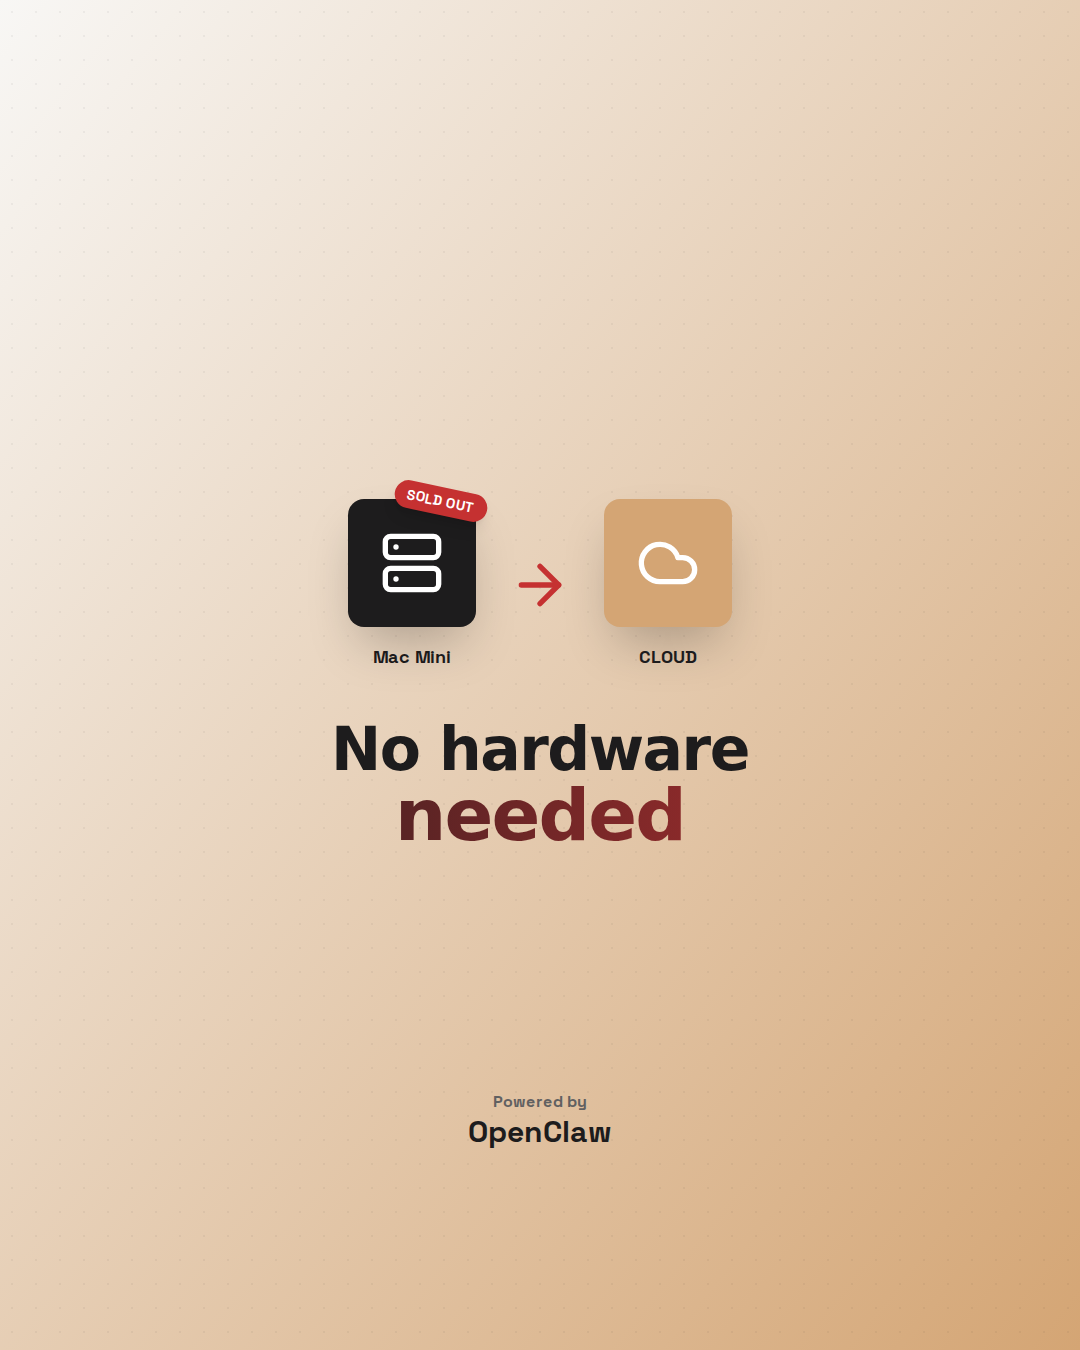
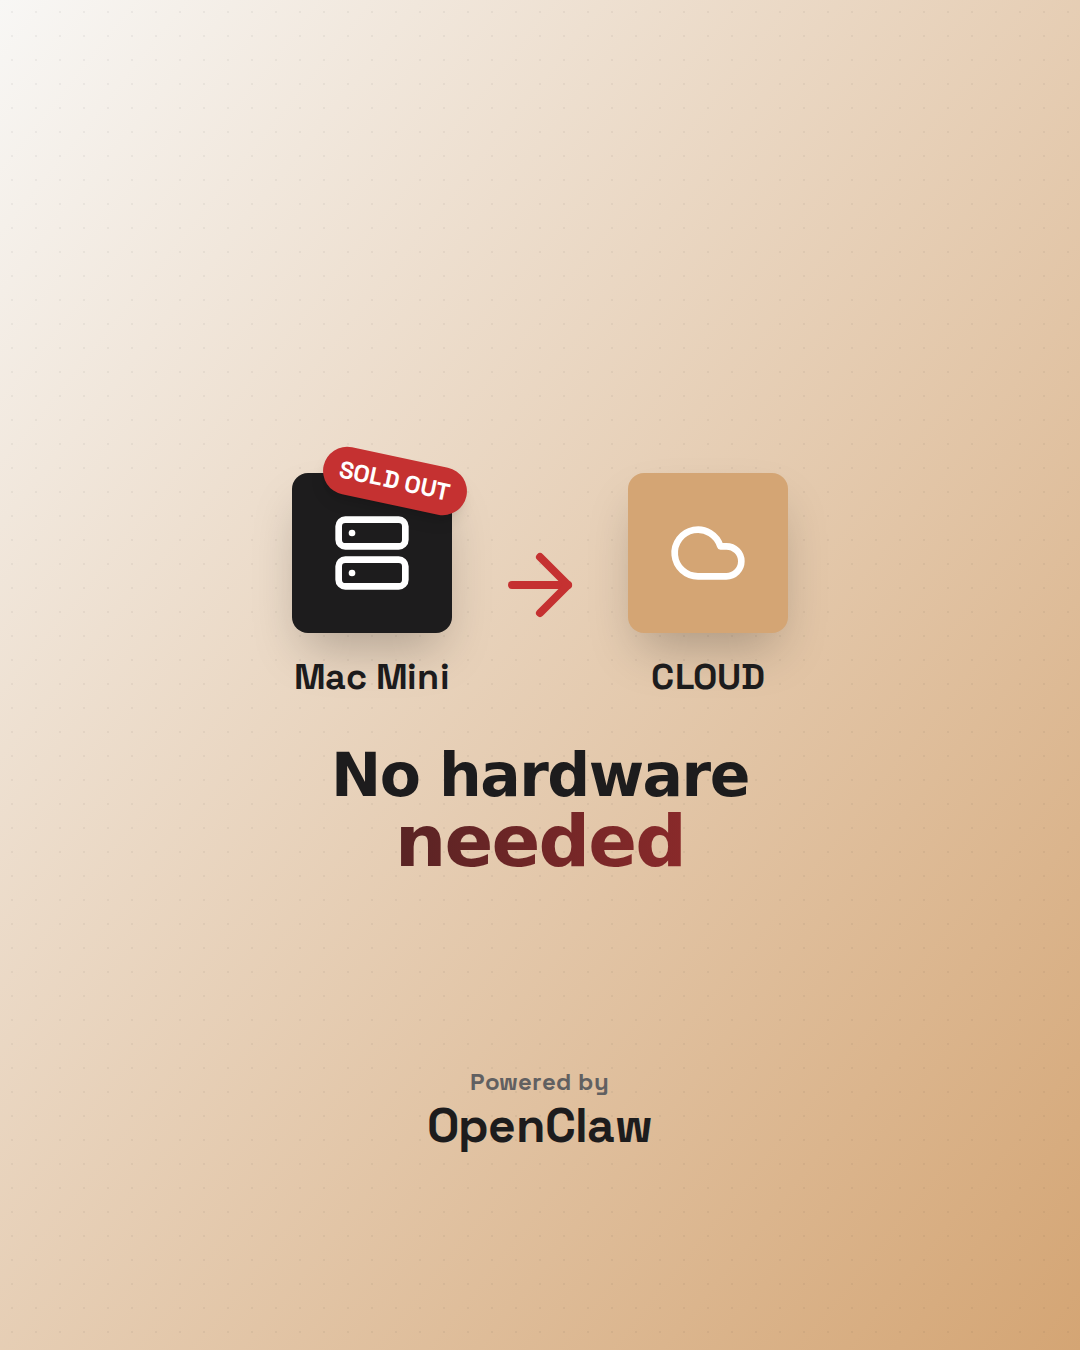
Update Teaser Post 2 with 2x bigger sizes per skill guidelines
- Icons: w-40 h-40 (was w-32)
- SOLD OUT sticker: text-2xl (was text-sm)
- Labels: text-4xl (was text-lg)
- Arrow: w-24 h-24 (was w-16)
- Attribution: text-5xl (was text-3xl)
- Powered by label: text-2xl (was text-base)

Changed region(s): [[0.2444, 0.3111, 0.7333, 0.6533], [0.3972, 0.7778, 0.6111, 0.8711], [0.4889, 0.4044, 0.5194, 0.4667]]

diff --git a/pages/teaser-post-2.js b/pages/teaser-post-2.js
@@ -28,28 +28,28 @@ const TeaserPost2 = () => {
           <div className="flex flex-col items-center">
             <div className="relative">
               {/* Mac Mini Icon */}
-              <div className="w-32 h-32 bg-[#1D1C1D] rounded-2xl flex items-center justify-center shadow-2xl">
-                <Server className="w-16 h-16 text-white" />
+              <div className="w-40 h-40 bg-[#1D1C1D] rounded-2xl flex items-center justify-center shadow-2xl">
+                <Server className="w-20 h-20 text-white" />
               </div>
-              {/* SOLD OUT Sticker */}
-              <div className="absolute -top-3 -right-3 bg-[#c53131] text-white px-3 py-1 rounded-full text-sm font-black transform rotate-12 shadow-lg">
+              {/* SOLD OUT Sticker - 2x BIGGER */}
+              <div className="absolute -top-4 -right-4 bg-[#c53131] text-white px-4 py-2 rounded-full text-2xl font-black transform rotate-12 shadow-lg">
                 SOLD OUT
               </div>
             </div>
-            <p className="mt-4 text-lg font-bold text-[#1D1C1D]">Mac Mini</p>
+            <p className="mt-6 text-4xl font-bold text-[#1D1C1D]">Mac Mini</p>
           </div>
 
-          {/* CENTER: Arrow */}
-          <div className="flex flex-col items-center mx-4">
-            <ArrowRight className="w-16 h-16 text-[#c53131]" />
+          {/* CENTER: Arrow - BIGGER */}
+          <div className="flex flex-col items-center mx-6">
+            <ArrowRight className="w-24 h-24 text-[#c53131]" />
           </div>
 
           {/* RIGHT: Cloud */}
           <div className="flex flex-col items-center">
-            <div className="w-32 h-32 bg-[#D4A574] rounded-2xl flex items-center justify-center shadow-2xl">
-              <Cloud className="w-16 h-16 text-white" />
+            <div className="w-40 h-40 bg-[#D4A574] rounded-2xl flex items-center justify-center shadow-2xl">
+              <Cloud className="w-20 h-20 text-white" />
             </div>
-            <p className="mt-4 text-lg font-bold text-[#1D1C1D]">CLOUD</p>
+            <p className="mt-6 text-4xl font-bold text-[#1D1C1D]">CLOUD</p>
           </div>
         </div>
 
@@ -64,13 +64,13 @@ const TeaserPost2 = () => {
         </div>
       </div>
 
-      {/* Bottom: Powered by OpenClaw - Safe zone (200px from bottom) */}
+      {/* Bottom: Powered by OpenClaw - Safe zone (200px from bottom) - 2x BIGGER */}
       <div 
         className="absolute left-1/2 transform -translate-x-1/2 text-center"
         style={{ bottom: '200px' }}
       >
-        <p className="text-base text-[#616061] font-bold">Powered by</p>
-        <p className="text-3xl font-black text-[#1D1C1D]">OpenClaw</p>
+        <p className="text-2xl text-[#616061] font-bold mb-1">Powered by</p>
+        <p className="text-5xl font-black text-[#1D1C1D]">OpenClaw</p>
       </div>
     </div>
   );
